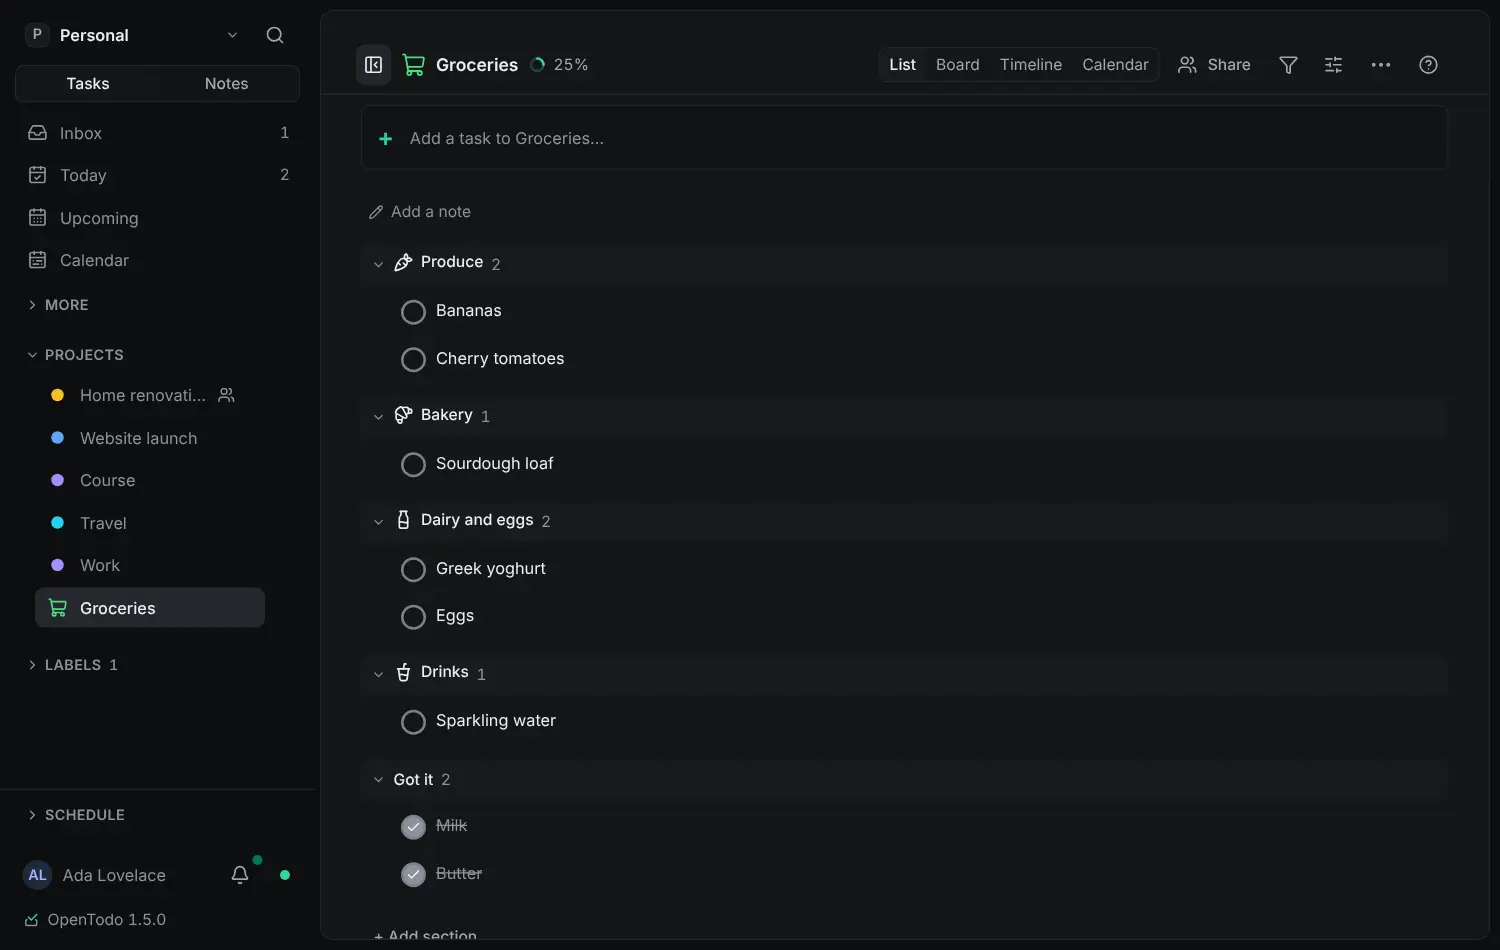
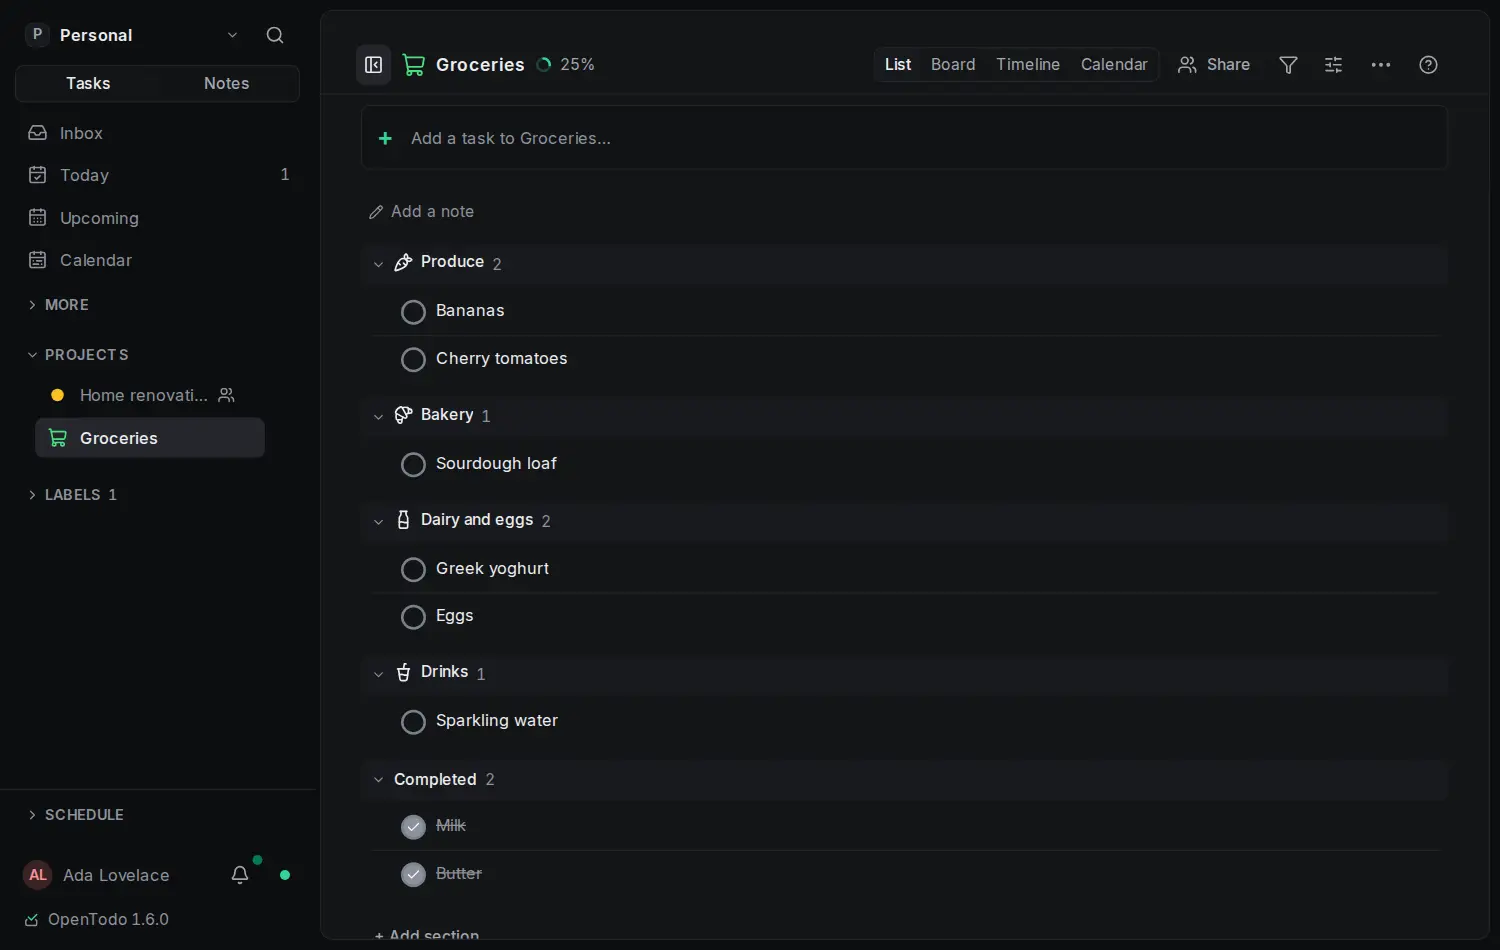
reusable-completed: the last "Got it" wording, and the screenshot redrawn
The reusable-lists Purpose and the docs index row still said "Got it";
the requirement reads "headed "Completed" with its count, like any
project's"; the reusable-list screenshot (light and dark) and its alt
text show the Completed group; useListModel cites reusable-completed D1.

diff --git a/web/src/app/task-list/useListModel.ts b/web/src/app/task-list/useListModel.ts
@@ -220,7 +220,7 @@ export function useListModel(route: ListRoute, userId?: string) {
   // With "Show completed tasks" on (project-completed-section), the list layout
   // keeps them in one Completed group at the end, newest first, closed by default.
   const showCompletedPref = useShowCompletedPref(projectId)
-  // A reusable list always ends with its ticked items, under Completed, on every device (reusable-lists D7).
+  // A reusable list always ends with its ticked items, under Completed, on every device (reusable-lists D7, reusable-completed D1).
   const reusable = !!projectId && isReusable(projectMap.get(projectId))
   const showCompleted = !!projectId && (showCompletedPref || reusable) && !board && !layout.timeline
   const completedTasks = useMemo(() => (showCompleted ? completedNewestFirst(doneBySection) : NO_TASKS), [showCompleted, doneBySection])

diff --git a/openspec/specs/reusable-lists/spec.md b/openspec/specs/reusable-lists/spec.md
@@ -1,7 +1,7 @@
 # reusable-lists Specification
 
 ## Purpose
-Lets a project be a reusable list, such as groceries or packing: adding an item already on it reopens that item instead of duplicating it, ticked items stay in a Got it group on every device, duplicates two devices added converge on one item, and new items can be sorted into aisle sections. Defines the title matching the web client and the server share and the reuse flag of the task API.
+Lets a project be a reusable list, such as groceries or packing: adding an item already on it reopens that item instead of duplicating it, ticked items stay in its Completed group on every device, duplicates two devices added converge on one item, and new items can be sorted into aisle sections. Defines the title matching the web client and the server share and the reuse flag of the task API.
 
 ## Requirements
 
@@ -48,7 +48,7 @@ In a reusable list, adding a task from quick add whose title normalizes equal to
 - **THEN** both produce the same normalized title and the same chosen match for every vector
 
 ### Requirement: Ticked items stay in a reusable list
-A reusable list SHALL end with a completed group headed "Completed" and its count, as any project's group is on every device, whatever the device's "Show completed tasks" preference, most recently completed first, closed by default with its open state remembered per device. Unticking an item in the group SHALL reopen it. The Project menu SHALL NOT offer "Show completed tasks" in a reusable list, and the line "n completed tasks hidden" SHALL NOT appear there.
+A reusable list SHALL end with a completed group headed "Completed" with its count, like any project's, on every device, whatever the device's "Show completed tasks" preference, most recently completed first, closed by default with its open state remembered per device. Unticking an item in the group SHALL reopen it. The Project menu SHALL NOT offer "Show completed tasks" in a reusable list, and the line "n completed tasks hidden" SHALL NOT appear there.
 
 #### Scenario: Partner's phone
 - **WHEN** Alice ticks off Eggs in the shared reusable "Groceries" and Bob, who never changed any display preference, opens it after sync

diff --git a/docs/README.md b/docs/README.md
@@ -34,7 +34,7 @@ The same guides are published, with screenshots and search, at [open-todo.app/do
 | &nbsp;&nbsp;↳ [All projects](all-projects.md) | Every project in a table with its health, progress, open tasks, next due date, people and last change; how health is worked out, sorting, the keyboard and the Archived tab. |
 | &nbsp;&nbsp;↳ [Project notes](project-notes.md) | The note at the top of a project: what it is for, who can edit it, Shift+P, folding long notes, and how the API and history see it. |
 | &nbsp;&nbsp;↳ [Completed tasks in a project](completed-in-projects.md) | Keep a project's completed tasks at the end of its list in a Completed group, for lists you tick off and reuse such as groceries. |
-| &nbsp;&nbsp;↳ [Reusable lists](reusable-lists.md) | Make a project a reusable list for groceries or packing, so adding an item that is already there brings it back and ticked items stay in a Got it group. |
+| &nbsp;&nbsp;↳ [Reusable lists](reusable-lists.md) | Make a project a reusable list for groceries or packing, so adding an item that is already there brings it back and ticked items stay in its Completed group. |
 | &nbsp;&nbsp;↳ [Sort a list into aisles](reusable-list-aisles.md) | Let new items of a reusable list go to aisle sections such as Produce or Dairy and eggs, and reuse items from the API, the command line and AI assistants. |
 | [Views](views.md) | Inbox, Today, Upcoming, Assigned to me, Completed and the calendar, plus views you save yourself, dashboards and the view each device opens on. |
 | &nbsp;&nbsp;↳ [The built-in views](built-in-views.md) | What Inbox, Today, Upcoming, Anytime, Someday, Assigned to me, Calendar, Completed, Filter, Trash and Updates show, their shortcuts, and the duration filter. |

diff --git a/openspec/changes/archive/2026-11-22-reusable-completed/specs/reusable-lists/spec.md b/openspec/changes/archive/2026-11-22-reusable-completed/specs/reusable-lists/spec.md
@@ -1,7 +1,7 @@
 ## MODIFIED Requirements
 
 ### Requirement: Ticked items stay in a reusable list
-A reusable list SHALL end with a completed group headed "Completed" and its count, as any project's group is on every device, whatever the device's "Show completed tasks" preference, most recently completed first, closed by default with its open state remembered per device. Unticking an item in the group SHALL reopen it. The Project menu SHALL NOT offer "Show completed tasks" in a reusable list, and the line "n completed tasks hidden" SHALL NOT appear there.
+A reusable list SHALL end with a completed group headed "Completed" with its count, like any project's, on every device, whatever the device's "Show completed tasks" preference, most recently completed first, closed by default with its open state remembered per device. Unticking an item in the group SHALL reopen it. The Project menu SHALL NOT offer "Show completed tasks" in a reusable list, and the line "n completed tasks hidden" SHALL NOT appear there.
 
 #### Scenario: Partner's phone
 - **WHEN** Alice ticks off Eggs in the shared reusable "Groceries" and Bob, who never changed any display preference, opens it after sync

diff --git a/docs/reusable-lists.md b/docs/reusable-lists.md
@@ -9,7 +9,7 @@ order: 19
 ---
 # Reusable lists
 
-<picture><source srcset="images/reusable-list-dark.webp" media="(prefers-color-scheme: dark)"><img src="images/reusable-list-light.webp" alt="The Groceries project as a reusable list: open items in the Produce, Bakery, Dairy and eggs and Drinks sections, and at the end a Got it group, opened, holding the ticked-off Milk and Butter."></picture>
+<picture><source srcset="images/reusable-list-dark.webp" media="(prefers-color-scheme: dark)"><img src="images/reusable-list-light.webp" alt="The Groceries project as a reusable list: open items in the Produce, Bakery, Dairy and eggs and Drinks sections, and at the end a Completed group, opened, holding the ticked-off Milk and Butter."></picture>
 
 Some lists come back every week: groceries, the pharmacy, packing. Make such a project a **reusable list**:
 
